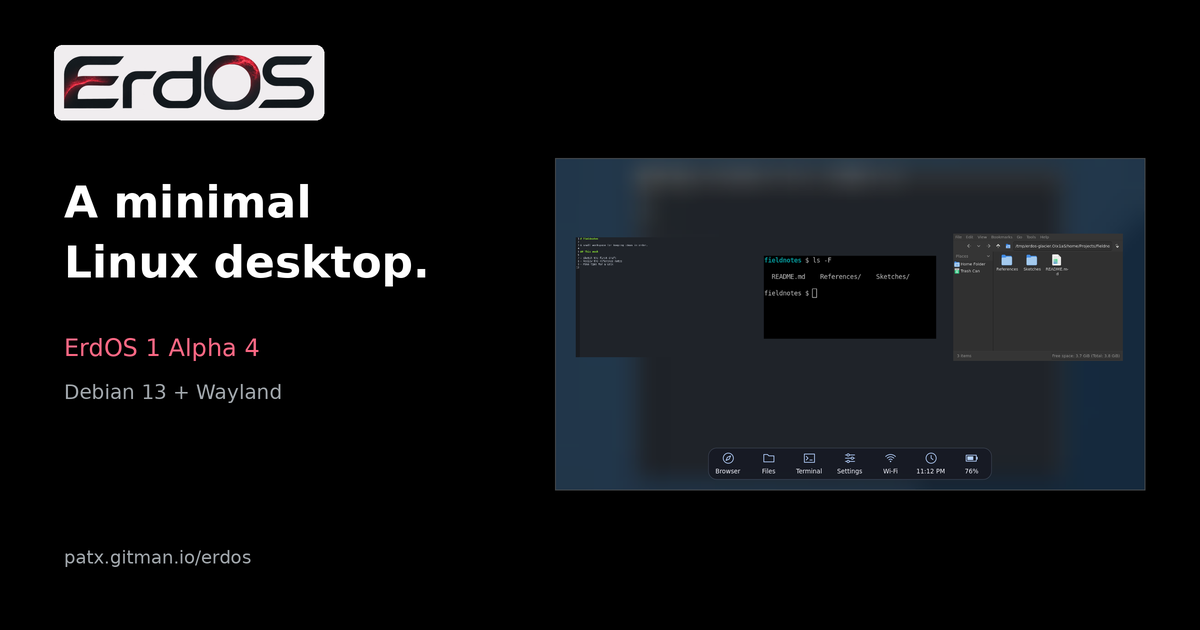
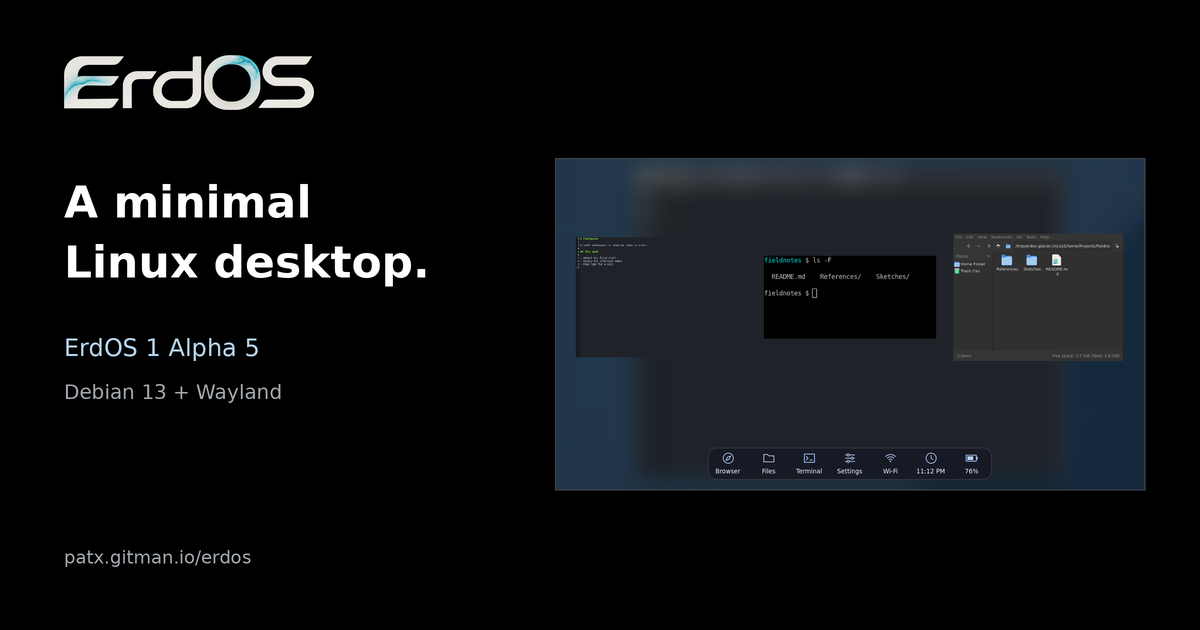
Publish ErdOS Alpha 5 release documentation

Changed region(s): [[0.0308, 0.0603, 0.2775, 0.2111], [0.0617, 0.5429, 0.2158, 0.573]]

diff --git a/docs/guide.html b/docs/guide.html
@@ -17,9 +17,9 @@
     <nav class="guide-nav" aria-label="On this page"><div><a href="#try">Try the live desktop</a><a href="#verify">Verify a download</a><a href="#install">Install to disk</a><a href="#desktop">Desktop and apps</a><a href="#footprint">Disk and RAM usage</a><a href="#settings">Settings</a><a href="#defaults">Default programs</a><a href="#background">Backgrounds</a><a href="#menu">Customize menu</a><a href="#shortcuts">Keyboard shortcuts</a><a href="#gestures">Touchpad gestures</a><a href="#monitors">Multiple monitors</a><a href="#troubleshooting">Troubleshooting</a></div></nav>
     <article class="guide-content">
       <h1>User guide</h1>
-      <p class="intro">This guide describes the current labwc/Wayland development checkout. The live overview and configurable dock are newer than the published Alpha 4 ISO; Alpha 4 still uses the earlier thumbnail switcher. This is an experimental prerelease: start in a VM and keep backups before installing on real disks.</p>
+      <p class="intro">This guide describes ErdOS 1 Alpha 5, which includes the live window overview, configurable launcher dock and Dark Glacier wallpaper. This is an experimental prerelease: start in a VM and keep backups before installing on real disks.</p>
       <section id="try"><h2>Try the live desktop</h2>
-        <ol><li>Download the <a href="https://downloads.erd.sh/v1.0.0-alpha.4/erdos-amd64.iso">Alpha 4 amd64 ISO</a> and its <a href="https://downloads.erd.sh/v1.0.0-alpha.4/erdos-amd64.iso.sha256">SHA-256 checksum</a>, or <a href="building.md">build from source</a>. See <a href="https://github.com/patx/erdos/releases/tag/v1.0.0-alpha.4">release notes</a> and <a href="#verify">verify the download</a>.</li><li>Attach the ISO to a VM, or use an image writer to write it to a USB device. Writing an image erases that USB device; copying the ISO file onto a formatted drive is not the same operation. Debian documents <a href="https://www.debian.org/releases/trixie/amd64/ch04s03.en.html">USB installation media</a>.</li><li>Use a 64-bit Intel/AMD system and disable Secure Boot. Choose <strong>Try ErdOS</strong> in the boot menu.</li><li>At the console, log in as <code>user</code> with password <code>live</code>. labwc starts automatically on tty1.</li></ol>
+        <ol><li>Download the <a href="https://downloads.erd.sh/v1.0.0-alpha.5/erdos-amd64.iso">Alpha 5 amd64 ISO</a> and its <a href="https://downloads.erd.sh/v1.0.0-alpha.5/erdos-amd64.iso.sha256">SHA-256 checksum</a>, or <a href="building.md">build from source</a>. See <a href="https://github.com/patx/erdos/releases/tag/v1.0.0-alpha.5">release notes</a> and <a href="#verify">verify the download</a>.</li><li>Attach the ISO to a VM, or use an image writer to write it to a USB device. Writing an image erases that USB device; copying the ISO file onto a formatted drive is not the same operation. Debian documents <a href="https://www.debian.org/releases/trixie/amd64/ch04s03.en.html">USB installation media</a>.</li><li>Use a 64-bit Intel/AMD system and disable Secure Boot. Choose <strong>Try ErdOS</strong> in the boot menu.</li><li>At the console, log in as <code>user</code> with password <code>live</code>. labwc starts automatically on tty1.</li></ol>
         <p>The public live account has sudo access. There is no SSH server, graphical login manager or configured persistence. Live-session changes disappear on reboot. Other virtual consoles stay in text mode.</p>
         <p>Choose <strong>Logout</strong> in the right-click menu to end the graphical session and return to a fresh login prompt. Log in again to start labwc.</p>
       </section>
@@ -57,21 +57,21 @@
         <p>Fresh offline installations of the previous X11 development image and final Wayland candidate, tested in the same VM configuration:</p>
         <table><thead><tr><th>Build</th><th>Installed disk</th><th>Idle RAM</th></tr></thead><tbody><tr><td>Previous X11 dev</td><td>1.814 GiB</td><td>361.8 MiB</td></tr><tr><td>Wayland candidate (Alpha 3)</td><td>1.750 GiB</td><td>355.4 MiB</td></tr></tbody></table>
         <p>UEFI, 2 vCPUs, 2 GiB RAM, 24 GiB install disk and 1280×800 software-rendered display. No network adapter, package updates or app windows before measurement. Disk counts root and EFI used blocks, excluding swap. RAM is MemTotal minus MemAvailable: five samples 10 seconds apart after a two-minute settle. Hardware and graphics drivers change these results.</p>
-        <p>Measured on the final Wayland candidate and the preserved X11 development baseline. Alpha 3 changes only the candidate’s release label. These are Alpha 3 baseline measurements; Alpha 4 has not been remeasured. <a href="footprint.json">Raw samples, ISO checksums and method</a> · <a href="testing.md">Validation and limitations</a>.</p>
+        <p>Measured on the final Wayland candidate and the preserved X11 development baseline. Alpha 3 changes only the candidate’s release label. These are Alpha 3 baseline measurements; Alpha 5 has not been remeasured. <a href="footprint.json">Raw samples, ISO checksums and method</a> · <a href="testing.md">Validation and limitations</a>.</p>
       </section>
       <section id="settings"><h2>Settings</h2>
-        <figure><img src="assets/settings-development.png" width="1280" height="720" alt="Alpha 4 Settings app with a native sidebar and grouped Appearance controls" loading="lazy"></figure>
+        <figure><img src="assets/overview-dock-settings.png?v=glacier" width="1280" height="720" alt="Alpha 5 Settings app showing Overview Dock controls" loading="lazy"></figure>
         <p>Press <strong>Super + I</strong> or choose Settings in the menu. Appearance, Default Programs, Touchpad, Keyboard, Overview Dock, Menu, Startup Applications, Gestures, Displays, Sound, Network, Bluetooth, Power and Date &amp; Time share one GTK window.</p>
-        <p>Grouped controls use Apply/Revert, editors show readable shortcuts and menu entries, and closing protects unsaved edits. Network and Bluetooth keep their own action buttons. Pending changes finish before Settings exits; no permanent Settings service is added. In the development build, Overview Dock can hide the entire dock, edit/reorder launchers and toggle labels, clock and battery. Apply changes, then reopen the overview. <a href="settings.md">All controls and persistence details</a>.</p>
+        <p>Grouped controls use Apply/Revert, editors show readable shortcuts and menu entries, and closing protects unsaved edits. Network and Bluetooth keep their own action buttons. Pending changes finish before Settings exits; no permanent Settings service is added. Overview Dock can hide the entire dock, edit/reorder launchers and toggle labels, clock and battery. Apply changes, then reopen the overview. <a href="settings.md">All controls and persistence details</a>.</p>
         <p>Power displays battery information and keeps Debian defaults. Date &amp; Time shows the clock, time zones and synchronization status. Displays has resolution confirmation and rollback. Startup Applications edits <code>~/.config/labwc/autostart</code>, checks shell syntax and keeps a previous-version backup. Changes run at the next login.</p>
       </section>
       <section id="defaults"><h2>Default programs</h2>
         <p>Use <strong>Settings → Default Programs</strong>. Install an alternative, refresh the application list, choose it and click Apply. The root menu and Super+Enter, Super+B, Super+E and Super+T use these choices immediately. Applications still lists actual app names.</p>
-        <p>Browser, folder and plain-text choices share the normal desktop associations, so a default browser chosen elsewhere is honored too. Terminal selection is per user, with the system terminal as fallback. Other file types retain their own associations. <a href="settings.md#default-programs">Details</a>. These defaults are retained in Alpha 4.</p>
+        <p>Browser, folder and plain-text choices share the normal desktop associations, so a default browser chosen elsewhere is honored too. Terminal selection is per user, with the system terminal as fallback. Other file types retain their own associations. <a href="settings.md#default-programs">Details</a>.</p>
       </section>
       <section id="background"><h2>Backgrounds</h2>
-        <p>In Settings → Appearance, choose the light/dark preference, a solid desktop color, or an image with Fill, Fit, Center or Tile. Firefox and supporting sites follow the system preference when their own theme settings allow it. Apply validates and copies the image into your own configuration. Moving the original file does not break it.</p>
-        <p>Remove image and Apply restores the solid color and deletes only the private copy. Swaybg is the single background process. The desktop background stays static. In development builds the overview adds its own snapshot blur and optional dock only while open.</p>
+        <p>Dark Glacier is the default wallpaper. In Settings → Appearance, choose the light/dark preference, a solid desktop color, or an image with Fill, Fit, Center or Tile. Firefox and supporting sites follow the system preference when their own theme settings allow it. Apply validates and copies a custom image into your own configuration. Moving the original file does not break it.</p>
+        <p>Remove image and Apply restores the solid color and deletes only the private copy. Swaybg is the single background process. The desktop background stays static. The overview adds its own snapshot blur and optional dock only while open.</p>
       </section>
       <section id="menu"><h2>Customize the right-click menu</h2>
         <p>Open Settings → Menu. Double-click a name or command to edit it. Use Add item, Add separator, Delete, Move up and Move down, then Apply menu. Changes take effect immediately and persist for your user.</p>
@@ -122,7 +122,7 @@
           <tr><td>4 fingers up / down</td><td>Disabled by default; configurable in Settings</td></tr>
         </tbody></table></div>
         <p>The overview shows live windows across workspaces. Click a window, or use the arrow keys and Enter. The arrow keys reveal a white selection glow. Tap Super again or swipe three fingers down to close the overview. The dock has app shortcuts, Wi-Fi settings, a 12-hour clock and battery status.</p>
-        <figure><img src="assets/labwc-thumbnails.png" width="1280" height="800" alt="Native labwc thumbnails for Twig, Sakura and ErdOS Settings" loading="lazy"></figure>
+        <figure><img src="assets/live-window-overview.png?v=glacier" width="1280" height="720" alt="Alpha 5 live window overview with application thumbnails and a launcher dock" loading="lazy"></figure>
         <p>Workspaces remain dynamic with one empty spare after the last occupied/current workspace. Empty gaps retain their numbers; only unused trailing spaces disappear. Use the Workspaces submenu or Super + Shift + O to see workspaces and their windows.</p>
         <p>Change swipes in Settings → Gestures. In Settings → Menu, independently toggle three-finger tap/click and Super + right-click. The touchpad option replaces middle-click; disabling it restores middle-click. Mouse middle-click, desktop right-click and Super + Space remain available. Hardware must support tapping/clickfinger as applicable.</p>
       </section>

diff --git a/docs/index.html b/docs/index.html
@@ -7,19 +7,19 @@
   <meta name="theme-color" content="#000000">
   <meta http-equiv="Content-Security-Policy" content="default-src 'self'; img-src 'self'; script-src 'self'; style-src 'self'; connect-src 'self'; object-src 'none'; base-uri 'self'">
   <meta property="og:title" content="ErdOS — a minimal Linux desktop">
-  <meta property="og:description" content="ErdOS 1 Alpha 4. A minimal Debian 13 desktop with labwc and Wayland.">
+  <meta property="og:description" content="ErdOS 1 Alpha 5. A minimal Debian 13 desktop with labwc and Wayland.">
   <meta property="og:type" content="website">
   <meta property="og:site_name" content="ErdOS">
   <meta property="og:url" content="https://patx.gitman.io/erdos/">
-  <meta property="og:image" content="https://patx.gitman.io/erdos/assets/og-image.png?v=glacier">
+  <meta property="og:image" content="https://patx.gitman.io/erdos/assets/og-image.png?v=alpha5">
   <meta property="og:image:type" content="image/png">
   <meta property="og:image:width" content="1200">
   <meta property="og:image:height" content="630">
-  <meta property="og:image:alt" content="ErdOS 1 Alpha 4 — a minimal Linux desktop, with native labwc window thumbnails.">
+  <meta property="og:image:alt" content="ErdOS 1 Alpha 5 — a minimal Linux desktop, with native labwc window thumbnails.">
   <meta name="twitter:card" content="summary_large_image">
   <meta name="twitter:title" content="ErdOS — a minimal Linux desktop">
-  <meta name="twitter:description" content="ErdOS 1 Alpha 4. Built on Debian 13 with labwc and Wayland.">
-  <meta name="twitter:image" content="https://patx.gitman.io/erdos/assets/og-image.png?v=glacier">
+  <meta name="twitter:description" content="ErdOS 1 Alpha 5. Built on Debian 13 with labwc and Wayland.">
+  <meta name="twitter:image" content="https://patx.gitman.io/erdos/assets/og-image.png?v=alpha5">
   <meta name="twitter:image:alt" content="ErdOS logo and labwc thumbnail window switcher.">
   <title>ErdOS — a minimal Linux desktop</title>
   <link rel="icon" href="assets/favicon.png?v=c4600b5be396" type="image/png">
@@ -36,17 +36,17 @@
     <section class="hero-band" id="download" aria-labelledby="hero-title">
       <div class="hero shell">
         <div class="hero-intro">
-          <p class="release-label">ErdOS 1 Alpha 4</p>
+          <p class="release-label">ErdOS 1 Alpha 5</p>
           <h1 id="hero-title">A minimal Linux desktop.</h1>
           <p class="hero-description">Debian 13, labwc and Wayland with keyboard shortcuts, touchpad gestures and a small set of everyday apps.</p>
           <div class="release-links">
-            <a class="primary-link" href="https://downloads.erd.sh/v1.0.0-alpha.4/erdos-amd64.iso">Download amd64 ISO</a>
-            <a href="https://github.com/patx/erdos/releases/tag/v1.0.0-alpha.4">Release notes</a>
+            <a class="primary-link" href="https://downloads.erd.sh/v1.0.0-alpha.5/erdos-amd64.iso">Download amd64 ISO</a>
+            <a href="https://github.com/patx/erdos/releases/tag/v1.0.0-alpha.5">Release notes</a>
           </div>
         </div>
         <figure class="hero-preview">
           <a href="assets/live-window-overview.png?v=glacier" aria-label="View the full-size live window overview screenshot">
-            <img src="assets/live-window-overview.png?v=glacier" alt="Live thumbnails of Sakura, Twig and PCManFM above the overview dock in an ErdOS development build" width="1280" height="720" fetchpriority="high">
+            <img src="assets/live-window-overview.png?v=glacier" alt="Live thumbnails of Sakura, Twig and PCManFM above the ErdOS Alpha 5 overview dock" width="1280" height="720" fetchpriority="high">
           </a>
         </figure>
       </div>

diff --git a/scripts/render-social-card.py b/scripts/render-social-card.py
@@ -4,7 +4,7 @@
 Development-only requirements: Pillow and DejaVu Sans fonts.
 """
 from pathlib import Path
-from PIL import Image, ImageDraw, ImageFont
+from PIL import Image, ImageDraw, ImageFont, ImageOps
 
 ROOT = Path(__file__).resolve().parents[1]
 SCALE = 2
@@ -17,15 +17,19 @@ def text(position, value, size, color='#ffffff', bold=False):
     draw.text(tuple(int(v * SCALE) for v in position), value, font=font, fill=color, anchor='lt')
 
 logo = Image.open(ROOT / 'docs/assets/erdos-logo.png').convert('RGBA')
+alpha = logo.getchannel('A')
+logo = ImageOps.invert(logo.convert('RGB')).convert('RGB', (
+    .81, 0, .19, 0,
+    .20, .80, 0, 0,
+    0, 0, 1, 0,
+))
+logo.putalpha(alpha)
 logo.thumbnail((250 * SCALE, 70 * SCALE), Image.Resampling.LANCZOS)
 x, y = 64 * SCALE, 55 * SCALE
-padding = 10 * SCALE
-draw.rounded_rectangle((x - padding, y - padding, x + logo.width + padding,
-                        y + logo.height + padding), radius=8 * SCALE, fill='#f0edef')
 canvas.paste(logo, (x, y), logo)
 text((64, 184), 'A minimal', 44, bold=True)
 text((64, 244), 'Linux desktop.', 44, bold=True)
-text((64, 338), 'ErdOS 1 Alpha 4', 24, '#ff6884')
+text((64, 338), 'ErdOS 1 Alpha 5', 24, '#b7d7f1')
 text((64, 384), 'Debian 13 + Wayland', 20, '#a2a8ad')
 text((64, 550), 'patx.gitman.io/erdos', 18, '#a2a8ad')
 shot = Image.open(ROOT / 'docs/assets/live-window-overview.png').convert('RGB')

diff --git a/README.md b/README.md
@@ -3,13 +3,11 @@
 A minimal **Debian 13 amd64** desktop using **labwc and Wayland**, with a small
 application set, keyboard navigation and touchpad gestures.
 
-**ErdOS 1 Alpha 4** polishes the Settings app and fixes system dark-mode
-integration. It uses the exact ISO already tested in a VM and on hardware;
-release preparation does not rebuild it. The hosted desktop updater brings these
-changes to existing Alpha 3 installs while preserving machine-specific fixes.
-[Download the amd64 ISO](https://downloads.erd.sh/v1.0.0-alpha.4/erdos-amd64.iso) ·
-[SHA-256](https://downloads.erd.sh/v1.0.0-alpha.4/erdos-amd64.iso.sha256) ·
-[Release notes](https://github.com/patx/erdos/releases/tag/v1.0.0-alpha.4).
+**ErdOS 1 Alpha 5** introduces live window previews, a configurable overview dock,
+improved Settings controls, blue boot branding and the Dark Glacier wallpaper.
+[Download the amd64 ISO](https://downloads.erd.sh/v1.0.0-alpha.5/erdos-amd64.iso) ·
+[SHA-256](https://downloads.erd.sh/v1.0.0-alpha.5/erdos-amd64.iso.sha256) ·
+[Release notes](https://github.com/patx/erdos/releases/tag/v1.0.0-alpha.5).
 This is an experimental prerelease; start in a VM. Secure Boot is not supported.
 
 [Website](https://patx.gitman.io/erdos/) · [User guide](https://patx.gitman.io/erdos/guide.html) ·
@@ -21,10 +19,8 @@ without reinstalling or replacing machine-specific drivers and settings.
 
 ## Desktop
 
-This checkout includes unreleased live-overview and Overview Dock settings work.
-The published Alpha 4 ISO and current hosted updater retain the previous window
-switcher. The fourteen-section Settings app continues to use the existing GTK
-runtime with no additional dependencies.
+Alpha 5 includes the live overview and fourteen-section GTK Settings app. The
+Alpha 4 ISO and hosted Alpha 3 desktop updater use the previous window switcher.
 
 - Floating windows and square dark decorations. The dock appears only in the window overview.
 - Native labwc overview with live window previews, a blurred desktop snapshot, and an app dock with Wi-Fi, a clock and battery status.
@@ -107,7 +103,7 @@ Fresh offline VM comparison (2 vCPUs, 2 GiB RAM, 1280×800, software rendering):
 
 Disk includes root and EFI, excludes swap. RAM is the median of five
 MemTotal-minus-MemAvailable samples after a two-minute settle. Hardware results
-will differ. These measurements describe the Alpha 3 baseline; Alpha 4 has not been remeasured. Alpha 3 updates only the measured candidate’s release label. [Raw measurements](docs/footprint.json) include both ISO checksums;
+will differ. These measurements describe the Alpha 3 baseline; Alpha 5 has not been remeasured. Alpha 3 updates only the measured candidate’s release label. [Raw measurements](docs/footprint.json) include both ISO checksums;
 [validation](docs/testing.md) records completed checks and hardware-test limits.
 
 ErdOS's own code is MIT-licensed. Vendored compositor/library/application sources

diff --git a/docs/releasing.md b/docs/releasing.md
@@ -3,19 +3,19 @@
 Repository: <https://github.com/patx/erdos>. Website:
 <https://patx.gitman.io/erdos/>. These instructions prepare artifacts locally;
 the release-packaging script does not commit, tag, push, upload or publish.
-The current public release is [ErdOS 1 Alpha 4](https://github.com/patx/erdos/releases/tag/v1.0.0-alpha.4).
+The current public release is [ErdOS 1 Alpha 5](https://github.com/patx/erdos/releases/tag/v1.0.0-alpha.5).
 Both source remotes use `main`: GitHub at the URL above and Gitman at
 <https://gitman.io/git/patx/erdos>.
 
-## Alpha 5 release candidate
+## Alpha 5: rebuilt ISO
 
-Alpha 5 uses a new ISO with the native window overview, configurable dock,
-updated Settings, blue boot branding and the Dark Glacier wallpaper. Build the
-source revision whose embedded version is `1.0.0-alpha.5`. Verify that exact
-image and check BIOS and UEFI boot before preparing its download artifacts.
-Upload the artifacts under `v1.0.0-alpha.5/` after validation. Switch the website
-download and release links once the hosted files and GitHub prerelease are
-available.
+Alpha 5 includes the native window overview, configurable dock, updated
+Settings, blue boot branding and Dark Glacier. Its embedded version is
+`1.0.0-alpha.5`. The [ISO](https://downloads.erd.sh/v1.0.0-alpha.5/erdos-amd64.iso)
+was built from source revision `a5779b4` and tested in BIOS and UEFI VMs.
+The ISO and five companion files were uploaded under `v1.0.0-alpha.5/` and
+read back from the public download host. See [validation](testing.md) for
+the boot-test scope and [release.json](release.json) for the image digest.
 
 ## Alpha 4: reuse the tested ISO
 
@@ -93,7 +93,7 @@ are under `v1.0.0-alpha.4/`; the ISO URL is
 The website remains on Gitman Pages, and source code stays on both Git remotes.
 The zone rule `erdos_alpha2_public_downloads` skips Security Level and Browser
 Integrity Check only for GET/HEAD requests to the exact release download
-paths for Alpha 2, Alpha 3 and Alpha 4, plus the five explicitly approved updater files.
+paths for Alpha 2 through Alpha 5, plus the five explicitly approved updater files.
 Add each future version’s file paths to that rule before publishing its
 links; keep other hosts, paths and methods outside the exception.
 

diff --git a/docs/settings.md b/docs/settings.md
@@ -1,14 +1,12 @@
 # ErdOS Settings
 
-Open **Settings** from the desktop menu or **Super + I**. The current development
-checkout has fourteen sections in one Python/GTK window, including **Overview
+Open **Settings** from the desktop menu or **Super + I**. Alpha 5 has fourteen sections in one Python/GTK window, including **Overview
 Dock**. Native theme colors, grouped controls, readable labels, keyboard focus,
 inline validation and Apply/Revert feedback are shared across the app. No extra
 UI libraries, packages or background services are added.
 
-The published Alpha 4 ISO still has the earlier thirteen-section interface and
-thumbnail switcher. The live overview, dock and changes below require a new build;
-they are not delivered by the current hosted Settings-only updater.
+The Alpha 4 ISO and hosted Settings-only updater retain the earlier
+thirteen-section interface and thumbnail switcher.
 
 ## Editing and feedback
 
@@ -55,7 +53,7 @@ keep their associations. Existing open apps are unaffected.
 
 ## Backgrounds and appearance
 
-New development images start with the bundled blue wallpaper. Choose Image in
+Alpha 5 starts with the bundled Dark Glacier wallpaper. Choose Image in
 Settings to return to the bundled wallpaper after using a solid color.
 Select a custom image and Fill, Fit, Center or Tile. ErdOS validates and copies
 it into `~/.config/erdos/background-image`, so moving the original does not break

diff --git a/docs/testing.md b/docs/testing.md
@@ -1,3 +1,18 @@
+# Alpha 5 ISO validation
+
+The Alpha 5 amd64 ISO was rebuilt from source revision `a5779b4` in a Debian 13
+KVM guest. The image verifier matched the embedded desktop and installer files
+against source, checked the compositor provenance, and confirmed retention of
+the required packages. All six release files, including the checksum
+manifest, were prepared from that image and matched the files read back from
+the Cloudflare download host.
+
+A BIOS VM showed the blue boot logo and reached the offline installer's
+language selection. A UEFI VM logged in to the Wayland live session, displayed
+Dark Glacier as the default wallpaper, and opened the live overview dock and
+Appearance settings. These checks covered VM boot and live use. Full disk
+installation and physical hardware testing were outside this Alpha 5 run.
+
 # Current development checks
 
 The configurable overview dock is newer than the published Alpha 4 image. Source

diff --git a/CHANGELOG.md b/CHANGELOG.md
@@ -1,4 +1,4 @@
-# ErdOS 1 Alpha 5 — release candidate
+# ErdOS 1 Alpha 5 — 2026-11-23
 
 - Add an Overview Dock tab: hide/show the dock, add/edit/remove/reorder launchers,
   choose installed applications and toggle launcher names, clock and battery.
